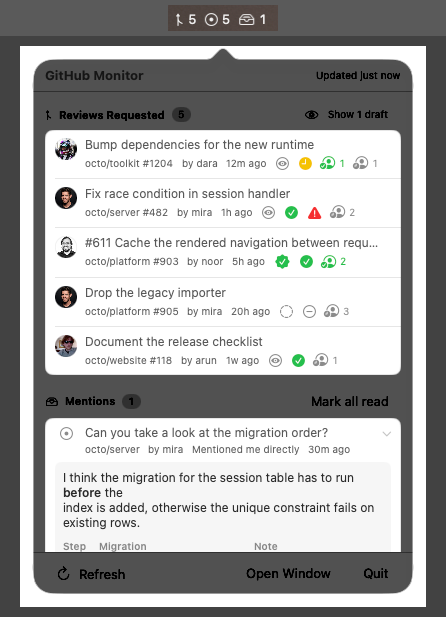
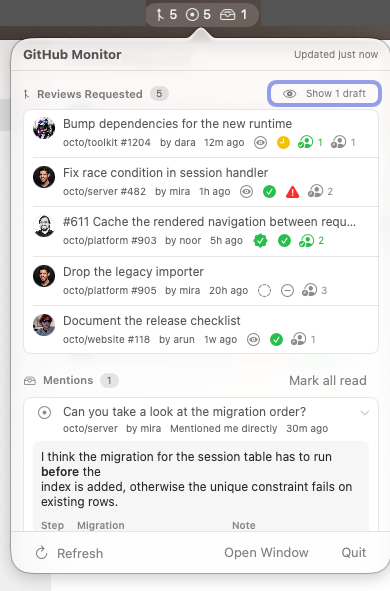
Add the MIT licence, fill the About panel, retake the popover
The popover screenshot was captured window by window, and macOS renders
a glass window with nothing behind it when asked for it that way: the
whole panel came out flat grey. Taken as a region of the screen it
shows what it actually looks like, with the menu bar item above it in
the same frame. The other menu bar items are cropped away rather than
painted over.

The About panel showed the icon, the name and the version over an empty
box. It now says what the app is and links to the source; the licence
and the copyright come from the bundle, which the panel prints under
that of its own accord -- putting either in the text as well showed the
same sentence twice, which is what the first attempt did.

diff --git a/Sources/GitHubMonitorKit/App/AppMenu.swift b/Sources/GitHubMonitorKit/App/AppMenu.swift
@@ -35,11 +35,9 @@ enum AppMenu {
         let item = NSMenuItem()
         let menu = NSMenu(title: appName)
 
-        menu.addItem(
-            withTitle: "About \(appName)",
-            action: #selector(NSApplication.orderFrontStandardAboutPanel(_:)),
-            keyEquivalent: ""
-        )
+        menu.addItem(ActionItem(title: "About \(appName)", keyEquivalent: "") {
+            NSApp.orderFrontStandardAboutPanel(options: AboutPanel.options())
+        })
         menu.addItem(.separator())
 
         // The native home for Cmd+, replacing the event monitor.
@@ -197,5 +195,71 @@ private final class ActionItem: NSMenuItem {
 
     @objc private func run() {
         handler()
+    }
+}
+
+/// What the About panel says.
+///
+/// Filled in rather than left to the bundle: the standard panel shows the
+/// name, the icon and the version on its own, and then an empty box where
+/// anyone opening it is looking for what the thing is and what they may do
+/// with it.
+enum AboutPanel {
+    static let repository = "https://github.com/sidler/GitHubMonitor"
+
+    static func options() -> [NSApplication.AboutPanelOptionKey: Any] {
+        [
+            .credits: credits(),
+            .applicationName: "GitHub Monitor",
+        ]
+    }
+
+    /// The panel renders an attributed string, so the text is built rather
+    /// than loaded from a Credits file the Makefile would have to copy.
+    static func credits() -> NSAttributedString {
+        let body = NSMutableAttributedString()
+
+        body.append(line(
+            "A menu bar app for the GitHub work waiting on you: the reviews, "
+                + "the issues and the mentions, with the diffs and the "
+                + "approving close enough that most of it needs no browser.",
+            size: 11
+        ))
+        body.append(line("", size: 5))
+        // The licence and the copyright come from the bundle, which the
+        // panel prints under this of its own accord -- saying either here
+        // as well put the same sentence on screen twice.
+        body.append(line("Source at", size: 11))
+        body.append(link(repository))
+
+        return body
+    }
+
+    private static func line(
+        _ text: String, size: CGFloat, colour: NSColor = .labelColor
+    ) -> NSAttributedString {
+        let paragraph = NSMutableParagraphStyle()
+        paragraph.alignment = .center
+        return NSAttributedString(
+            string: text + "\n",
+            attributes: [
+                .font: NSFont.systemFont(ofSize: size),
+                .foregroundColor: colour,
+                .paragraphStyle: paragraph,
+            ]
+        )
+    }
+
+    private static func link(_ url: String) -> NSAttributedString {
+        let paragraph = NSMutableParagraphStyle()
+        paragraph.alignment = .center
+        return NSAttributedString(
+            string: url + "\n",
+            attributes: [
+                .font: NSFont.systemFont(ofSize: 11),
+                .link: URL(string: url) as Any,
+                .paragraphStyle: paragraph,
+            ]
+        )
     }
 }

diff --git a/README.md b/README.md
@@ -223,6 +223,10 @@ above come from, which is why none of them show real work. The fixtures live in
 `Sources/GitHubMonitorKit/Model/SampleData.swift`, and the tests draw on the
 same ones, so a row in a test looks like a row in the app.
 
+## Licence
+
+MIT — see [LICENSE](LICENSE).
+
 ## Project layout
 
 ```
